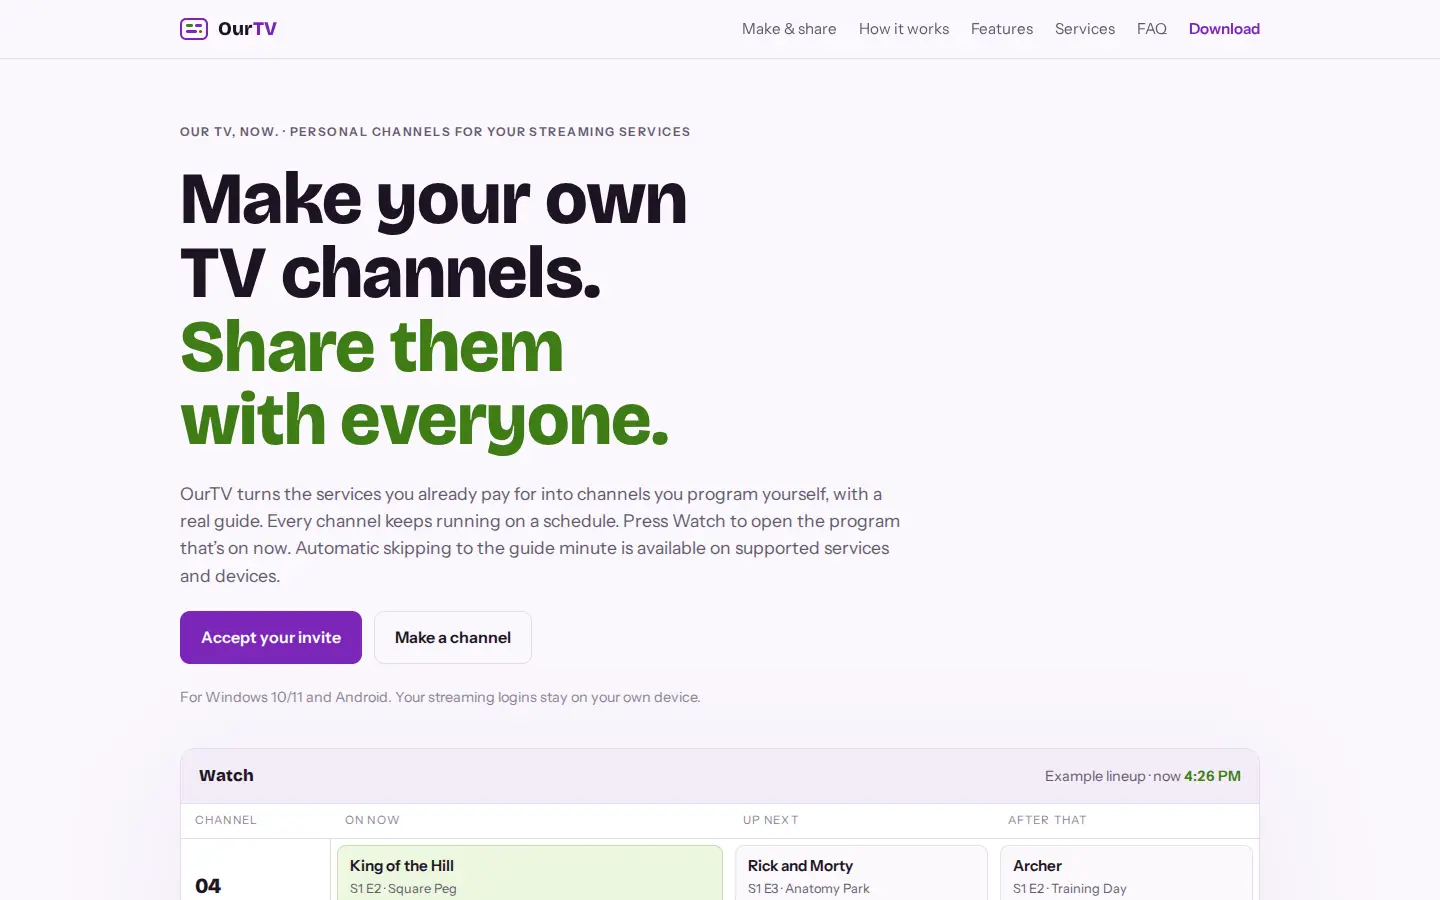
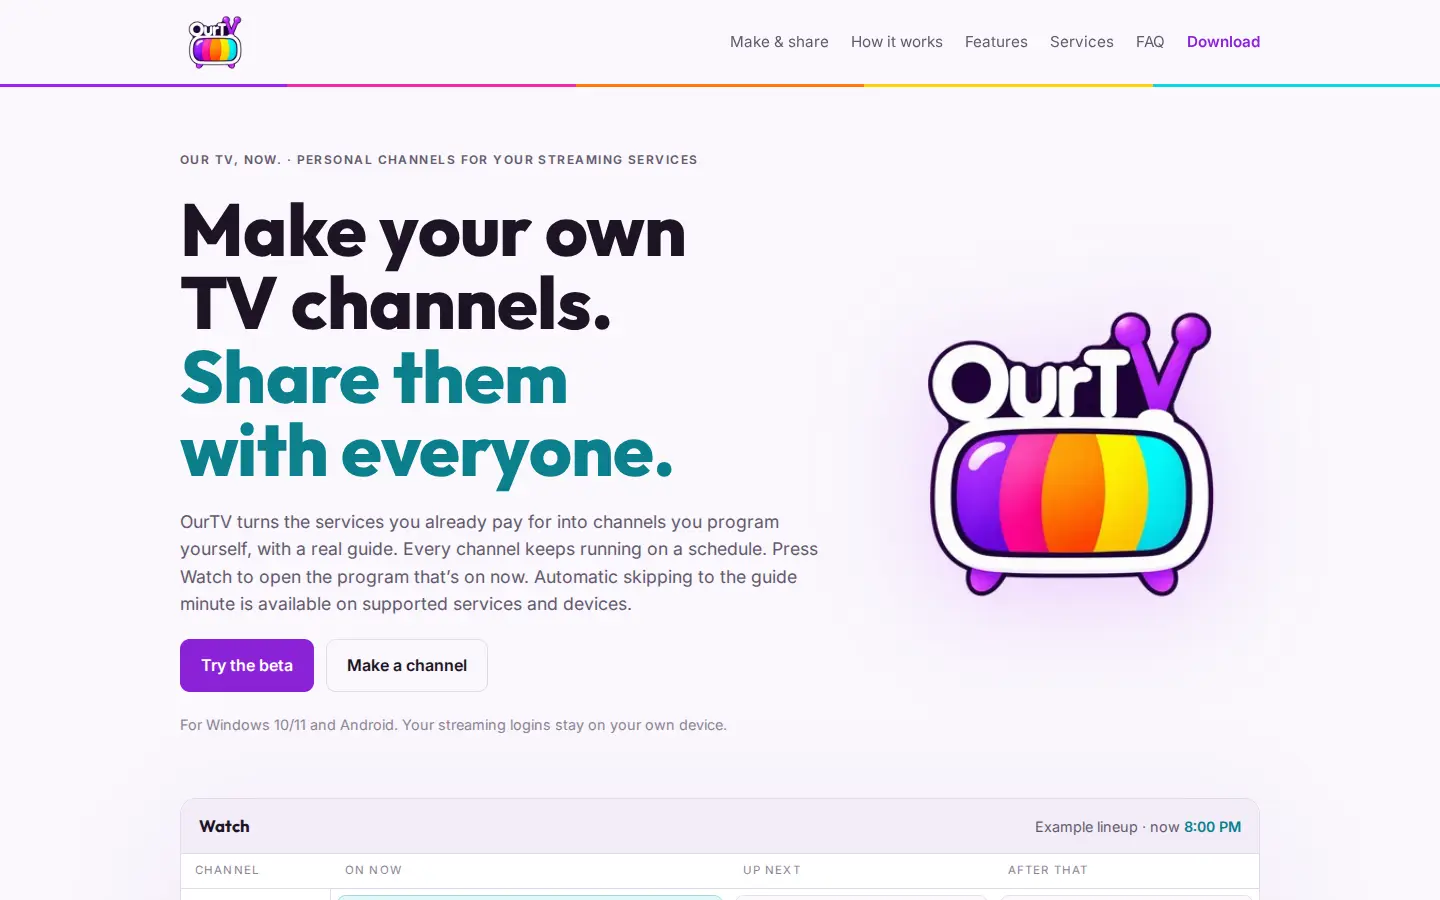
Move OurTV to the top of Joe's Live now with its open beta copy
OurTV opened its beta to everyone on October 29, so it moves out of In
the works and leads Joe's Live now section. Fresh site capture with the
new TV-set logo, copy updated from ourtvnow.com and the November 7
release notes (Explore, People, reminders, Fire TV), status Open beta.

diff --git a/config/projects.ts b/config/projects.ts
@@ -123,20 +123,23 @@ export const projects: readonly Project[] = [
     name: 'OurTV',
     kind: 'App',
     owner: 'joe',
-    discipline: 'Desktop & Android app / TV',
+    discipline: 'Windows, Android & TV app',
     summary: 'Turn the streaming services you already pay for into TV channels.',
-    story: 'Make your own TV channels out of the streaming services you already pay for. Put shows and movies in the order you want, from any of your services, and the channel airs around the clock with a real program guide. Press Watch to open whatever is on now, or share a channel so a friend can run their own copy.',
+    headline: 'Our TV, now.',
+    story: 'Make your own TV channels out of the streaming services you already pay for. Put shows and movies in the order you want, from any of your services, and the channel airs around the clock with a real program guide. Press Watch to jump into whatever is on now, or post a channel to the Community for anyone to copy.',
     features: [
-      'Channels built only from the services you subscribe to',
-      'A live program guide: on now, up next, after that',
-      'Press Watch to jump into the program already in progress',
-      'Share channels with friends or post them for anyone to copy',
-      'For Windows and Android, with streaming logins kept on your device',
+      'Channels from the services you subscribe to, plus free Tubi, The Roku Channel and Pluto TV',
+      'A live program guide with reminders and a Coming up calendar',
+      'Press Watch to join the show in progress, at the guide minute where the service allows it',
+      'Explore what your services carry and add it straight to a channel',
+      'Profiles, follows and comments, and a Community for sharing and copying channels',
+      'Windows, Android phones, Android TV and Fire TV, synced by one account, with streaming logins kept on each device',
     ],
-    status: 'Invite only',
+    status: 'Open beta',
+    statusNote: 'Anyone can download it for Windows, Android or Fire TV, no invite needed.',
     url: 'https://ourtvnow.com',
     linkLabel: 'Visit OurTV',
-    capture: siteCapture('ourtv', 'the OurTV home page, “Make your own TV channels”, with an example program guide below.'),
+    capture: siteCapture('ourtv', 'the OurTV home page, “Make your own TV channels”, beside the OurTV TV-set logo.'),
   },
   {
     id: 'marginalia',

diff --git a/config/site.ts b/config/site.ts
@@ -197,11 +197,11 @@ export const profilePages: Readonly<Record<PersonId, { metaTitle: string; descri
   },
   joe: {
     metaTitle: joe,
-    description: `${joe}, co-founder of 18HRSHIFT. SpotSlop, Power Hour Club, NYBEC Tracker, OurTV, the Marginalia reading app, a Nintendo DS fan translation and a long list of side quests.`,
+    description: `${joe}, co-founder of 18HRSHIFT. OurTV, SpotSlop, Power Hour Club, NYBEC Tracker, the Marginalia reading app, a Nintendo DS fan translation and a long list of side quests.`,
     sections: [
-      { id: 'live', title: 'Live now', kind: 'projects', projects: ['power-hour-club', 'nybec'] },
+      { id: 'live', title: 'Live now', kind: 'projects', projects: ['ourtv', 'power-hour-club', 'nybec'] },
       { id: 'games', title: 'His games', kind: 'games' },
-      { id: 'works', title: 'In the works', kind: 'projects', projects: ['ourtv', 'marginalia', 'ouran'] },
+      { id: 'works', title: 'In the works', kind: 'projects', projects: ['marginalia', 'ouran'] },
       { id: 'ideas', title: 'Side quests', kind: 'ideas' },
     ],
   },
